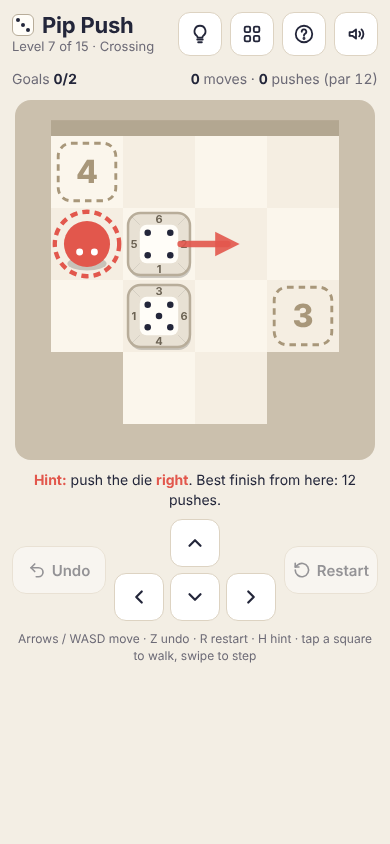
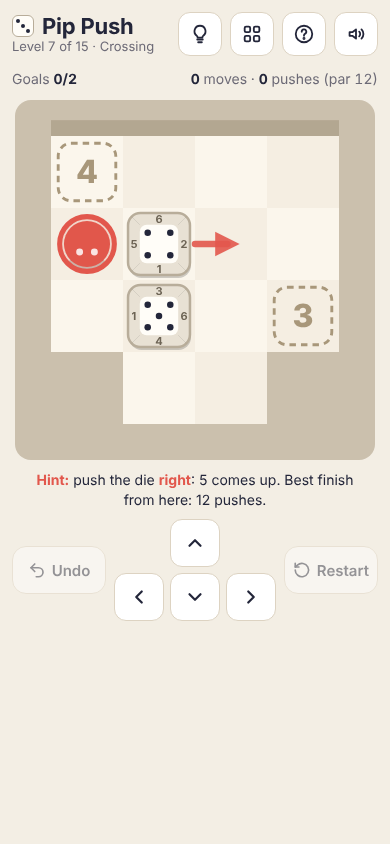
pip-push: reviewer fixes — hints search in a worker and reuse the stored plan, dead ends announced with an Undo-N button, arrow clears side numbers, solid hint ring, 'n comes up' in hints
Claude-Session: https://claude.ai/code/session_011RkHTwd76B273fPiJG8qFt

diff --git a/games/pip-push/index.html b/games/pip-push/index.html
@@ -56,6 +56,8 @@
   .tip b { color: var(--ink); }
   .tip.hint { color: var(--ink); }
   .tip.hint b { color: var(--player); }
+  .tipbtn { margin-left: 6px; min-height: 36px; padding: 0 12px; border-radius: 10px; border: 1px solid var(--player); background: var(--btn); color: var(--btn-ink); font: 600 14px var(--font); cursor: pointer; }
+  @media (pointer: coarse) { .keys { display: none; } }
   .controls { display: grid; grid-template-columns: minmax(0, 1fr) auto minmax(0, 1fr); align-items: center; gap: 8px; }
   .controls .big { width: 100%; max-width: 130px; padding: 0 8px; }
   .pad { display: grid; grid-template-columns: repeat(3, 50px); grid-template-rows: repeat(2, 48px); gap: 6px; }
@@ -206,7 +208,7 @@ function parseLevel(i) {
 }
 function newGame(level) {
   const lv = parseLevel(level);
-  return { level, lv, player: lv.start.player.slice(), dice: lv.start.dice.map((d) => ({ ...d, o: d.o.slice() })), moves: 0, pushes: 0, hints: 0, screen: "playing", history: [] };
+  return { level, lv, player: lv.start.player.slice(), dice: lv.start.dice.map((d) => ({ ...d, o: d.o.slice() })), moves: 0, pushes: 0, hints: 0, screen: "playing", dead: false, deadAt: -1, history: [] };
 }
 const isWall = (g, x, y) => x < 0 || y < 0 || x >= g.lv.w || y >= g.lv.h || g.lv.walls.has(y * g.lv.w + x);
 const dieAt = (g, x, y) => g.dice.findIndex((d) => d.x === x && d.y === y);
@@ -224,7 +226,7 @@ function tryMove(g, d) {
   if (isWall(g, bx, by) || dieAt(g, bx, by) >= 0) return { ok: false, reason: "blocked", dieIndex: di };
   return { ok: true, push: true, dieIndex: di };
 }
-const snapshot = (g) => ({ player: g.player.slice(), dice: g.dice.map((d) => ({ ...d, o: d.o.slice() })), moves: g.moves, pushes: g.pushes, screen: g.screen });
+const snapshot = (g) => ({ player: g.player.slice(), dice: g.dice.map((d) => ({ ...d, o: d.o.slice() })), moves: g.moves, pushes: g.pushes, screen: g.screen, dead: !!g.dead, deadAt: g.deadAt ?? -1 });
 function applyMove(g, d) {
   const r = tryMove(g, d);
   if (!r.ok) return { g, r };
@@ -247,9 +249,16 @@ function restart(g) {
   if (g.moves === 0 && g.history.length === 0) return { ...fresh, hints: g.hints };
   return { ...fresh, hints: g.hints, history: g.history.concat([snapshot(g)]) }; // restart is undoable; hint count stays
 }
+// back to the position just before the push that made the level unfinishable (one step, undoable like any undo)
+function rewind(g) {
+  if (!g.dead || g.deadAt < 0 || g.deadAt >= g.history.length) return g;
+  const s = g.history[g.deadAt];
+  return { ...g, ...snapshot(s), history: g.history.slice(0, g.deadAt) };
+}
 function legalActions(g) {
   const out = g.screen === "playing" ? Object.keys(DIRS).filter((d) => tryMove(g, d).ok) : [];
   if (g.history.length) out.push("undo");
+  if (g.dead && g.deadAt >= 0) out.push("rewind");
   if (g.moves > 0 || g.history.length) out.push("restart");
   return out;
 }
@@ -321,21 +330,32 @@ function planFrom(g, moves) {
   }
   return plan;
 }
-function findHint(g, plan) {
-  if (g.screen !== "playing") return { hint: null, plan };
-  if (plan) {
-    const sig = diceSig(g.dice), i = plan.findIndex((q) => q.sig === sig);
-    if (i >= 0) { const q = plan[i]; const here = g.player[0] === q.stand[0] && g.player[1] === q.stand[1];
-      if (here || walkPath(g, q.stand[0], q.stand[1])) return { hint: { stand: q.stand.slice(), d: q.d, die: q.die, left: plan.length - i }, plan }; }
+const solverInput = (g, cap) => { const w = g.lv.w; return { w, h: g.lv.h, walls: g.lv.walls, goals: g.lv.goals.map((q) => ({ p: q.y * w + q.x, n: q.n })),
+  player: g.player[1] * w + g.player[0], dice: g.dice.map((d) => ({ p: d.y * w + d.x, o: d.o.slice() })), cap }; };
+// a hint from a known minimum-push plan, without searching (null if the position isn't on any plan)
+function planHint(g, plans) {
+  const sig = diceSig(g.dice);
+  for (const plan of plans) {
+    if (!plan) continue;
+    const i = plan.findIndex((q) => q.sig === sig); if (i < 0) continue;
+    const q = plan[i], here = g.player[0] === q.stand[0] && g.player[1] === q.stand[1];
+    if (here || walkPath(g, q.stand[0], q.stand[1])) return { hint: { stand: q.stand.slice(), d: q.d, die: q.die, left: plan.length - i }, plan };
   }
-  const w = g.lv.w;
-  const r = pushSolve({ w, h: g.lv.h, walls: g.lv.walls, goals: g.lv.goals.map((q) => ({ p: q.y * w + q.x, n: q.n })),
-    player: g.player[1] * w + g.player[0], dice: g.dice.map((d) => ({ p: d.y * w + d.x, o: d.o })) }, 250000);
+  return null;
+}
+function hintFromResult(g, r) {
   if (!r) return { hint: { stuck: true }, plan: null };
   if (r.capped) return { hint: { unknown: true }, plan: null };
   const np = planFrom(g, r.moves), q = np[0];
   return { hint: { stand: q.stand.slice(), d: q.d, die: q.die, left: np.length }, plan: np };
 }
+function findHint(g, plans) { // synchronous (QA and fallback)
+  if (g.screen !== "playing") return { hint: null, plan: null };
+  if (g.dead) return { hint: { stuck: true }, plan: null };
+  return planHint(g, plans) || hintFromResult(g, pushSolve(solverInput(g), 250000));
+}
+// quick dead-end check after a push: null = provably unfinishable; capped = don't know (say nothing)
+function isDead(g) { const r = pushSolve(solverInput(g), 15000); return r === null; }
 
 // ================= persistence =================
 let save = { solved: {}, level: 0, sides: true, muted: false };
@@ -452,13 +472,13 @@ function drawHint(now) {
   const [sx, sy] = hint.stand, die = game.dice[hint.die], [dx, dy] = DIRS[hint.d];
   const pulse = reduceMotion ? 0 : Math.sin(now / 220) * 0.04;
   ctx.save();
-  ctx.strokeStyle = C.player; ctx.lineWidth = Math.max(2, cell * 0.06); ctx.setLineDash([cell * 0.1, cell * 0.07]);
-  ctx.beginPath(); ctx.arc((sx + 0.5) * cell, (sy + 0.5) * cell, cell * (0.43 + pulse), 0, Math.PI * 2); ctx.stroke();
-  ctx.setLineDash([]);
+  ctx.strokeStyle = C.player; ctx.lineWidth = Math.max(2.5, cell * 0.07);
+  ctx.beginPath(); ctx.arc((sx + 0.5) * cell, (sy + 0.5) * cell, cell * (0.42 + pulse), 0, Math.PI * 2);
+  ctx.globalAlpha = 0.16; ctx.fillStyle = C.player; ctx.fill(); ctx.globalAlpha = 1; ctx.stroke();
   // arrow from the die's centre to the next square
   const ax = (die.x + 0.5) * cell, ay = (die.y + 0.5) * cell, bx = ax + dx * cell * 0.95, by = ay + dy * cell * 0.95;
   ctx.lineWidth = Math.max(3, cell * 0.09); ctx.lineCap = "round"; ctx.globalAlpha = 0.9;
-  ctx.beginPath(); ctx.moveTo(ax + dx * cell * 0.3, ay + dy * cell * 0.3); ctx.lineTo(bx, by); ctx.stroke();
+  ctx.beginPath(); ctx.moveTo(ax + dx * cell * 0.5, ay + dy * cell * 0.5); ctx.lineTo(bx, by); ctx.stroke(); // starts at the die's edge, clear of its side number
   const hw = cell * 0.17; ctx.fillStyle = C.player; ctx.beginPath();
   ctx.moveTo(bx + dx * hw, by + dy * hw); ctx.lineTo(bx - dx * hw + dy * hw, by - dy * hw + dx * hw); ctx.lineTo(bx - dx * hw - dy * hw, by - dy * hw - dx * hw); ctx.closePath(); ctx.fill();
   ctx.restore();
@@ -531,11 +551,13 @@ function renderUI() {
   $("par").textContent = `(par ${L.par})`;
   const tip = $("tip"); tip.classList.toggle("hint", !!hint && g.screen === "playing");
   if (hint && g.screen === "playing") {
-    if (hint.stuck) tip.innerHTML = "<b>No way to finish from here.</b> Undo a few moves, or Restart.";
+    if (hint.stuck) tip.innerHTML = deadLine(g);
     else if (hint.unknown) tip.innerHTML = "<b>Too many ways to look ahead from here.</b> Try Undo or Restart.";
     else { const here = g.player[0] === hint.stand[0] && g.player[1] === hint.stand[1];
-      tip.innerHTML = `<b>Hint:</b> ${here ? "push" : "walk to the ring and push"} the die <b>${DIRNAME[hint.d]}</b>. Best finish from here: ${hint.left} push${hint.left === 1 ? "" : "es"}.`; }
-  } else tip.innerHTML = TIPS[g.level] || "";
+      const up = roll(g.dice[hint.die].o, hint.d)[0];
+      tip.innerHTML = `<b>Hint:</b> ${here ? "push" : "walk to the ring and push"} the die <b>${DIRNAME[hint.d]}</b>: ${up} comes up. Best finish from here: ${hint.left} push${hint.left === 1 ? "" : "es"}.`; }
+  } else if (g.dead && g.screen === "playing") { tip.classList.add("hint"); tip.innerHTML = deadLine(g); }
+  else tip.innerHTML = TIPS[g.level] || "";
   $("hintBtn").disabled = g.screen !== "playing";
   $("undoBtn").disabled = !g.history.length;
   $("restartBtn").disabled = !(g.moves > 0 || g.history.length);
@@ -548,13 +570,18 @@ function renderUI() {
     const last = g.level === LEVELS.length - 1;
     $("wMoves").textContent = g.moves; $("wPushes").textContent = g.pushes; $("wPar").textContent = L.par;
     $("winTitle").textContent = last ? "All levels solved!" : "Solved!";
-    $("wNote").textContent = (g.pushes <= L.par ? "At par: the fewest pushes possible." : "Par is the fewest pushes possible. Can you get there?") + (g.hints ? ` Used ${g.hints} hint${g.hints === 1 ? "" : "s"}.` : "");
+    $("wNote").textContent = (g.pushes <= L.par ? "At par: the fewest pushes possible." : "Par is the fewest pushes possible. Can you get there?") + (g.hints ? ` Used ${g.hints} hint${g.hints === 1 ? "" : "s"}.` : " No hints used.");
     $("wNext").textContent = last ? "Pick a level" : "Next level";
   }
   document.documentElement.style.setProperty("--dummy", "0");
   $("muteBtn").setAttribute("aria-pressed", String(!!save.muted));
   $("waves").style.display = save.muted ? "none" : "";
   $("sidesToggle").checked = !!save.sides;
+}
+function deadLine(g) {
+  const back = g.dead && g.deadAt >= 0 ? g.history.length - g.deadAt : 0;
+  return back ? `<b>This can't be finished any more.</b> <button class="tipbtn" data-rewind>Undo ${back} move${back === 1 ? "" : "s"}</button>`
+    : "<b>This can't be finished from here.</b> Undo, or Restart.";
 }
 function describe() {
   const g = game, parts = [`You are at column ${g.player[0]}, row ${g.player[1]}.`];
@@ -580,7 +607,7 @@ function walkTo(tx, ty) {
   const path = walkPath(game, tx, ty);
   if (!path || !path.length) { sfx.bump(); return; }
   const keepHint = hint && hint.d && hint.stand[0] === tx && hint.stand[1] === ty ? hint : null; // walking onto the ring keeps the arrow
-  hint = keepHint;
+  hint = keepHint; hintBusy = 0;
   const before = game, pts = [before.player.slice()];
   let g = game;
   for (const d of path) { g = applyMove(g, d).g; pts.push(g.player.slice()); }
@@ -591,23 +618,52 @@ function walkTo(tx, ty) {
 }
 
 // ================= actions =================
-let hintPlan = null, hintBusy = false;
+let hintPlan = null, basePlan = null, hintBusy = 0;
+// search in a worker so the page never freezes; falls back to searching on the page if workers are unavailable
+let solver = null, solverSeq = 0;
+try {
+  const src = pushSolve.toString() + "\nonmessage = (e) => { const S = e.data; S.walls = new Set(S.walls); postMessage({ id: S.id, r: pushSolve(S, S.cap) }); };";
+  solver = new Worker(URL.createObjectURL(new Blob([src], { type: "text/javascript" })));
+  solver.onerror = () => { solver = null; if (hintBusy) { hintBusy = 0; showHint(true); } };
+  solver.onmessage = (e) => {
+    if (typeof e.data.id === "string") { const f = pendingDead.get(e.data.id); pendingDead.delete(e.data.id); if (f && e.data.r === null) f(); return; }
+    if (e.data.id !== hintBusy) return; // the player moved on; drop it
+    hintBusy = 0; if (game.screen !== "playing") return;
+    finishHint(hintFromResult(game, e.data.r));
+  };
+} catch (e) { solver = null; }
+function finishHint(r) {
+  const fresh = !hint || !hint.d;
+  hint = r.hint; hintPlan = r.plan || hintPlan;
+  if (hint && hint.d) { if (fresh) game = { ...game, hints: game.hints + 1 }; sfx.goal(); } else sfx.bump();
+  sync();
+}
 function showHint(now) {
   if (game.screen !== "playing" || hintBusy) return;
-  const run = () => {
-    hintBusy = false; if (game.screen !== "playing") return;
-    const r = findHint(game, hintPlan); hint = r.hint; hintPlan = r.plan;
-    if (hint && hint.d) { game = { ...game, hints: game.hints + 1 }; sfx.goal(); } else sfx.bump();
-    sync();
-  };
-  if (now) return run();
-  // let "Thinking…" paint before a long search (the busiest rooms take up to about a second)
-  hintBusy = true; $("tip").classList.add("hint"); $("tip").innerHTML = "<b>Thinking…</b>";
-  setTimeout(() => requestAnimationFrame(() => setTimeout(run, 0)), 0);
+  if (now || game.dead) return finishHint(findHint(game, [basePlan, hintPlan]));
+  const quick = planHint(game, [basePlan, hintPlan]);
+  if (quick) return finishHint(quick);
+  if (!solver) return finishHint(findHint(game, [basePlan, hintPlan]));
+  hintBusy = ++solverSeq;
+  const S = solverInput(game, 250000); S.walls = [...S.walls]; S.id = hintBusy;
+  $("tip").classList.add("hint"); $("tip").innerHTML = "<b>Thinking…</b>";
+  solver.postMessage(S);
 }
+// after a push: is the level still finishable? Runs in the worker; marks the game dead only if the answer
+// comes back for the same position. syncCheck (QA) does it on the page.
+let syncCheck = false, deadSeq = 0;
+function checkDead(sync) {
+  const at = game.history.length, sig = diceSig(game.dice) + "@" + at;
+  const mark = () => { if (game.screen === "playing" && !game.dead && diceSig(game.dice) + "@" + game.history.length === sig) { game = { ...game, dead: true, deadAt: at - 1 }; sync || renderUI(); } };
+  if (sync || !solver) { if (isDead(game)) mark(); return; }
+  const S = solverInput(game, 15000); S.walls = [...S.walls]; S.id = "d" + (++deadSeq); S.sig = sig;
+  pendingDead.set(S.id, mark); solver.postMessage(S);
+}
+const pendingDead = new Map();
 function doAction(a) {
   if (a === "hint") { showHint(true); return; }
-  if (DIRS[a] || a === "undo" || a === "restart") hint = null;
+  if (DIRS[a] || a === "undo" || a === "restart" || a === "rewind") { hint = null; hintBusy = 0; }
+  if (a === "rewind") { game = rewind(game); anim = null; burst = null; sync(); return; }
   if (a === "undo") { game = undo(game); anim = null; burst = null; sync(); return; }
   if (a === "restart") { game = restart(game); anim = null; sync(); return; }
   if (!DIRS[a]) return;
@@ -619,6 +675,7 @@ function doAction(a) {
     requestDraw(); return;
   }
   game = g;
+  if (r.push && game.screen === "playing" && !game.dead && !planHint(game, [basePlan, hintPlan])) checkDead(syncCheck);
   anim = reduceMotion ? null : { t0: performance.now(), dur: r.push ? 130 : 95, from: before, d: a, push: r.push, dieIndex: r.dieIndex };
   if (r.push) sfx.push(); else sfx.step();
   const met = goalStatus(game).filter(Boolean).length;
@@ -638,7 +695,9 @@ function doAction(a) {
 function loadLevel(i) {
   game = newGame(Math.max(0, Math.min(LEVELS.length - 1, i)));
   save.level = game.level; persist();
-  anim = null; burst = null; shake = null; hint = null; hintPlan = null; facing = "D"; layout(); sync();
+  anim = null; burst = null; shake = null; hint = null; hintPlan = null; hintBusy = 0; facing = "D";
+  basePlan = planFrom(game, LEVELS[game.level].sol); // the stored solution is a minimum-push plan: instant hints along it
+  layout(); sync();
 }
 
 // ================= input =================
@@ -711,6 +770,7 @@ function openLevels() {
 }
 $("levelsBtn").onclick = openLevels;
 $("hintBtn").onclick = () => showHint();
+$("tip").addEventListener("click", (e) => { if (e.target.closest("[data-rewind]")) doAction("rewind"); });
 $("helpBtn").onclick = () => { $("helpSheet").hidden = false; $("helpSheet").querySelector(".primary").focus(); };
 $("sidesToggle").onchange = (e) => { save.sides = e.target.checked; persist(); sync(); };
 function toggleMute() { save.muted = !save.muted; persist(); renderUI(); }
@@ -718,6 +778,7 @@ $("muteBtn").onclick = toggleMute;
 window.addEventListener("resize", () => { layout(); requestDraw(); });
 if (window.matchMedia) window.matchMedia("(prefers-color-scheme: dark)").addEventListener?.("change", () => { readColors(); requestDraw(); });
 
+basePlan = planFrom(game, LEVELS[game.level].sol);
 layout(); sync();
 
 // ================= QA hook =================
@@ -726,10 +787,10 @@ window.__qa = {
     screen: game.screen, level: game.level, moves: game.moves, pushes: game.pushes,
     player: game.player.slice(), dice: game.dice.map((d) => [d.x, d.y, ...d.o]),
     goals: game.lv.goals.map((q) => [q.x, q.y, q.n]), goalsMet: goalStatus(game).filter(Boolean).length, canUndo: game.history.length > 0,
-    hints: game.hints, hint: hint ? (hint.d ? { stand: hint.stand.slice(), d: hint.d, die: hint.die, left: hint.left } : hint.stuck ? "stuck" : "unknown") : null,
+    dead: !!game.dead, hints: game.hints, hint: hint ? (hint.d ? { stand: hint.stand.slice(), d: hint.d, die: hint.die, left: hint.left } : hint.stuck ? "stuck" : "unknown") : null,
   }),
   actions: () => legalActions(game),
-  act: (a) => { doAction(a); anim = null; },
+  act: (a) => { syncCheck = true; try { doAction(a); } finally { syncCheck = false; } anim = null; },
   reset: (level) => { closeSheets(); loadLevel(level ?? game.level); },
   levels: () => LEVELS.length,
   solve: () => { loadLevel(game.level); return LEVELS[game.level].sol.split(""); },
